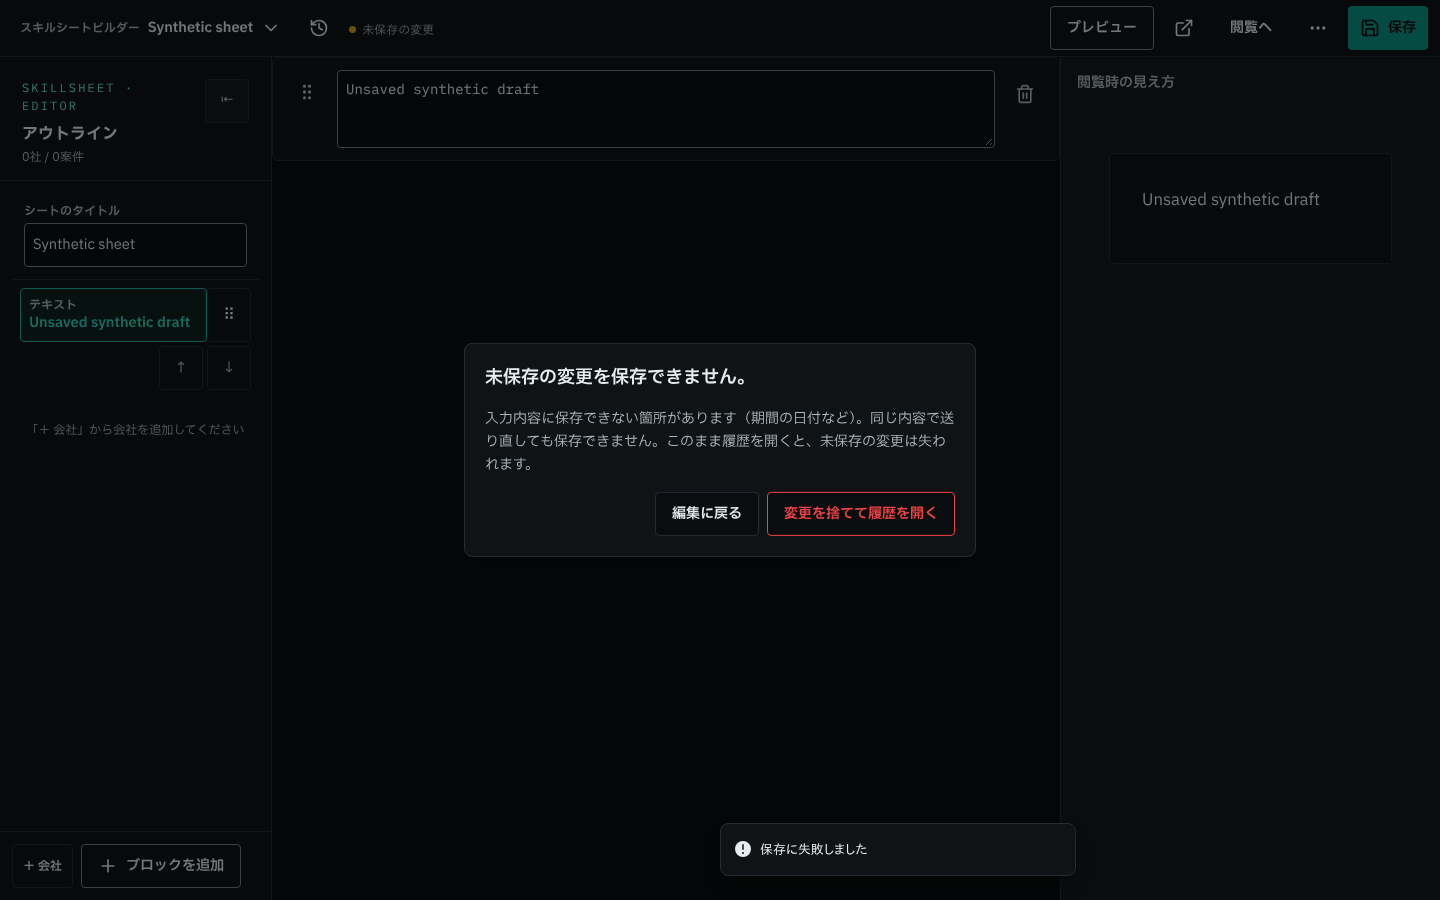
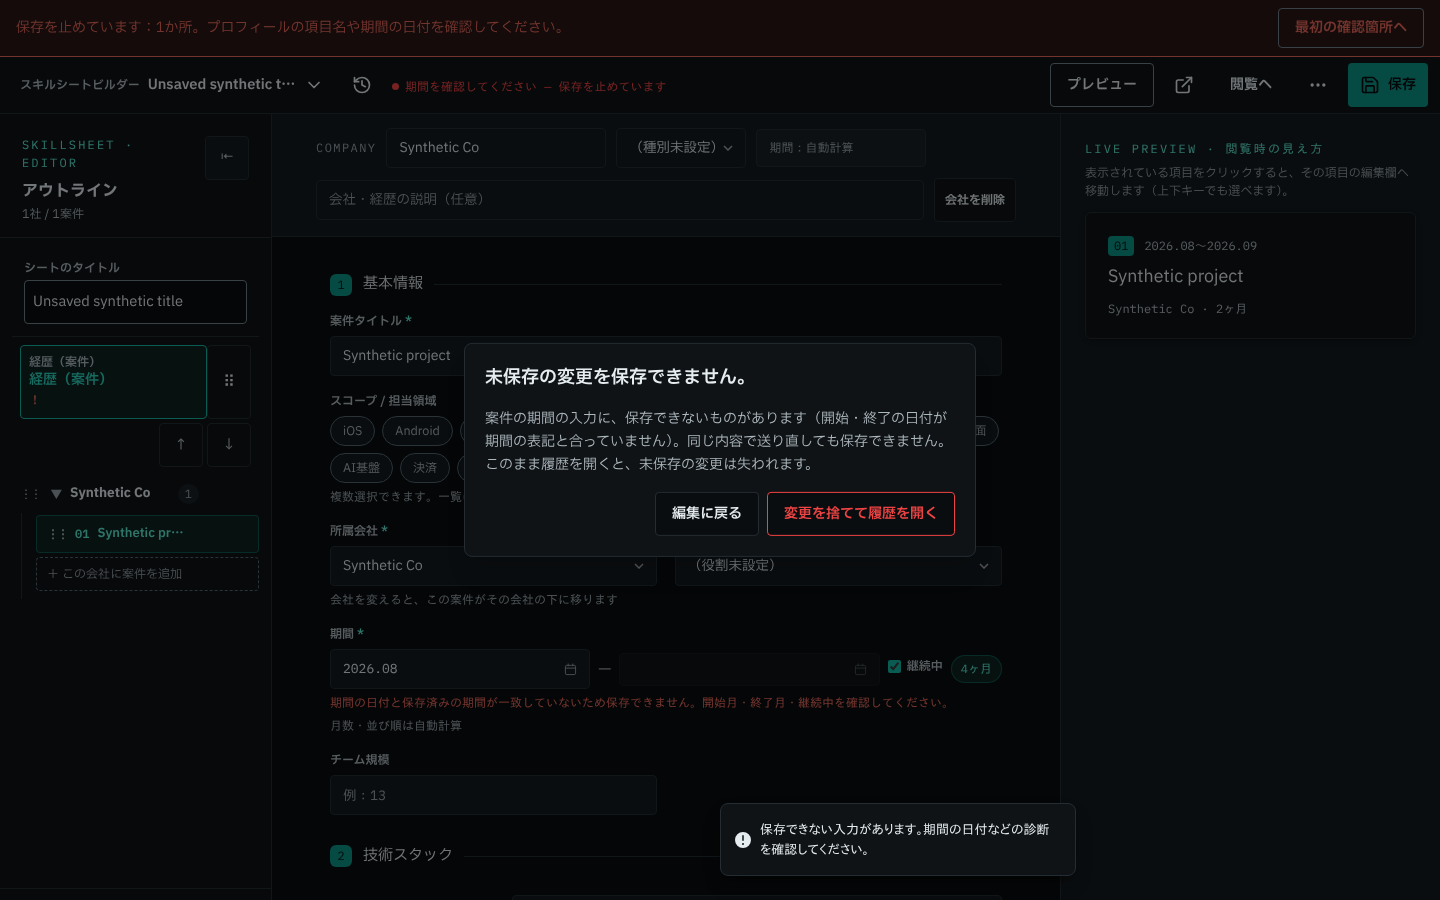
[SBI][fix] #633 入力エラーの証跡を現在の文言で撮り直し、選び直し・danger・削除取り消しを守る試験を足す
- 入力エラーの証跡を、期間の不一致（名指しの文）と サーバの BAD_REQUEST（汎用文）の 2 種 × 明暗 × 1440/390 の 8 枚にする
- 「変更を捨てて履歴を開く」で deletedBlock も消し、捨てたブロックの「削除を取り消す」が残らないようにする
- 選択案件の選び直しの試験は、保存済みに案件があり未保存の案件を選んでいる場面にして、修正を外すと落ちるようにする
- 確認ボタンが danger の見た目で出ることを試験で守る

Claude-Session: https://claude.ai/code/session_01Cv4a6GH8YuxUe328FttVhH

diff --git a/app/builder/builder-client.test.tsx b/app/builder/builder-client.test.tsx
@@ -457,6 +457,10 @@ describe('BuilderClient', () => {
     expect(within(reason).getByText(/このまま履歴を開くと、未保存の変更は失われます。/)).toBeInTheDocument();
     expect(within(reason).getByText(/入力内容に、保存できない箇所があります/)).toBeInTheDocument();
     expect(screen.queryByRole('button', { name: 'もう一度保存して開く' })).not.toBeInTheDocument();
+    // 変更が失われる操作なので、確認ボタンは danger（破壊的な見た目）で出す。
+    const discardButton = within(reason).getByRole('button', { name: '変更を捨てて履歴を開く' });
+    expect(discardButton).toHaveClass('border-destructive', 'text-destructive');
+    expect(within(reason).getByRole('button', { name: '編集に戻る' })).not.toHaveClass('text-destructive');
     await user.click(within(reason).getByRole('button', { name: '編集に戻る' }));
     await waitFor(() => expect(screen.queryByRole('alertdialog')).not.toBeInTheDocument());
     expect(screen.queryByRole('region', { name: '版の履歴' })).not.toBeInTheDocument();
@@ -520,6 +524,69 @@ describe('BuilderClient', () => {
     expect(projects).toHaveLength(1);
     expect(projects[0].data.companies).toHaveLength(1);
     expect(projects[0].data.companies[0]).toMatchObject({ name: '入れ直した会社' });
+  });
+
+  it('捨てて履歴を開いた後、保存済みに案件があるのに未保存の案件を選んでいた場合は、保存済みの案件を選び直す', async () => {
+    const user = userEvent.setup();
+    mockSave.mockRejectedValue(trpcClientError('BAD_REQUEST'));
+    render(
+      <BuilderClient
+        initialTitle="t"
+        {...defaultProps}
+        initialBlocks={[
+          {
+            id: 'bbbbbbbb-bbbb-4bbb-8bbb-bbbbbbbbbbbb',
+            type: 'project',
+            order: 0,
+            data: {
+              companies: [{ id: 'c1', name: '保存済みの会社', kind: '', period: '', note: '' }],
+              items: [],
+            },
+          },
+          { id: 'block-1', type: 'markdown', order: 1, data: { markdown: '補足' } },
+        ]}
+      />,
+    );
+    // 補足ブロックを選んで案件ブロックを足し、足した案件ブロックに入力する（選択中の案件が未保存になる）。
+    await user.click(screen.getByRole('button', { name: 'テキスト: 補足' }));
+    await user.click(screen.getByRole('button', { name: 'ブロックを追加' }));
+    await user.click(screen.getAllByRole('button', { name: '案件' })[0]);
+    await user.click(screen.getByRole('button', { name: '＋ 会社' }));
+    fireEvent.change(screen.getByLabelText('会社名'), { target: { value: '未保存の会社' } });
+    await user.click(screen.getByRole('button', { name: '版の履歴を開く' }));
+    await user.click(
+      within(await screen.findByRole('alertdialog')).getByRole('button', { name: '保存して履歴を開く' }),
+    );
+    await user.click(
+      within(await screen.findByRole('alertdialog')).getByRole('button', { name: '変更を捨てて履歴を開く' }),
+    );
+    await user.click(await screen.findByRole('button', { name: '編集画面へ' }));
+    expect(screen.queryByDisplayValue('未保存の会社')).not.toBeInTheDocument();
+    // 選択案件が保存済みの案件に戻っているので、編集欄は保存済みの会社を出す。
+    expect(screen.getByLabelText('会社名')).toHaveValue('保存済みの会社');
+  });
+
+  it('捨てて履歴を開いた後は、捨てたブロックの「削除を取り消す」が残らない', async () => {
+    const user = userEvent.setup();
+    mockSave.mockRejectedValue(trpcClientError('BAD_REQUEST'));
+    render(<BuilderClient initialBlocks={mdBlocks(['既存本文'])} initialTitle="t" {...defaultProps} />);
+    // 未保存のテキストブロックを足して削除すると「削除を取り消す」が出る。その後も未保存の編集が残る状態にする。
+    await user.click(screen.getByRole('button', { name: 'ブロックを追加' }));
+    await user.click(screen.getAllByRole('button', { name: 'テキスト' })[0]);
+    fireEvent.change(screen.getByPlaceholderText('Markdown を入力...'), { target: { value: '未保存のブロック' } });
+    await user.click(screen.getByLabelText('ブロックを削除'));
+    expect(screen.getByRole('button', { name: '削除を取り消す' })).toBeInTheDocument();
+    fireEvent.change(screen.getByPlaceholderText('Markdown を入力...'), { target: { value: '捨てる編集' } });
+    await user.click(screen.getByRole('button', { name: '版の履歴を開く' }));
+    await user.click(
+      within(await screen.findByRole('alertdialog')).getByRole('button', { name: '保存して履歴を開く' }),
+    );
+    await user.click(
+      within(await screen.findByRole('alertdialog')).getByRole('button', { name: '変更を捨てて履歴を開く' }),
+    );
+    await user.click(await screen.findByRole('button', { name: '編集画面へ' }));
+    expect(screen.queryByRole('button', { name: '削除を取り消す' })).not.toBeInTheDocument();
+    expect(screen.queryByDisplayValue('未保存のブロック')).not.toBeInTheDocument();
   });
 
   it('期間投影の不一致（クライアント側検証）で履歴前の保存が止まった時も、往復せず理由を出す', async () => {

diff --git a/app/builder/builder-client.tsx b/app/builder/builder-client.tsx
@@ -1011,6 +1011,8 @@ const BuilderClient = ({
     failedSnapshotRef.current = null;
     followUpRef.current = false;
     setAutosaveStatus('idle');
+    // 捨てた未保存ブロックの「削除を取り消す」が残ると、捨てたはずのブロックが戻る（onRestored と同じく消す）。
+    setDeletedBlock(null);
     // 捨てた未保存ブロックを選んだままにしない。選択ブロックと選択案件を、保存済みの中から揃えて選び直す
     // （onRestored と同じ流儀。案件だけ古い id が残ると、入力した時に捨てたはずの案件が再追加される）。
     if (!savedItems.some((item) => item.id === selectedBlockId)) setSelectedBlockId(savedItems[0]?.id ?? 'new-project');
